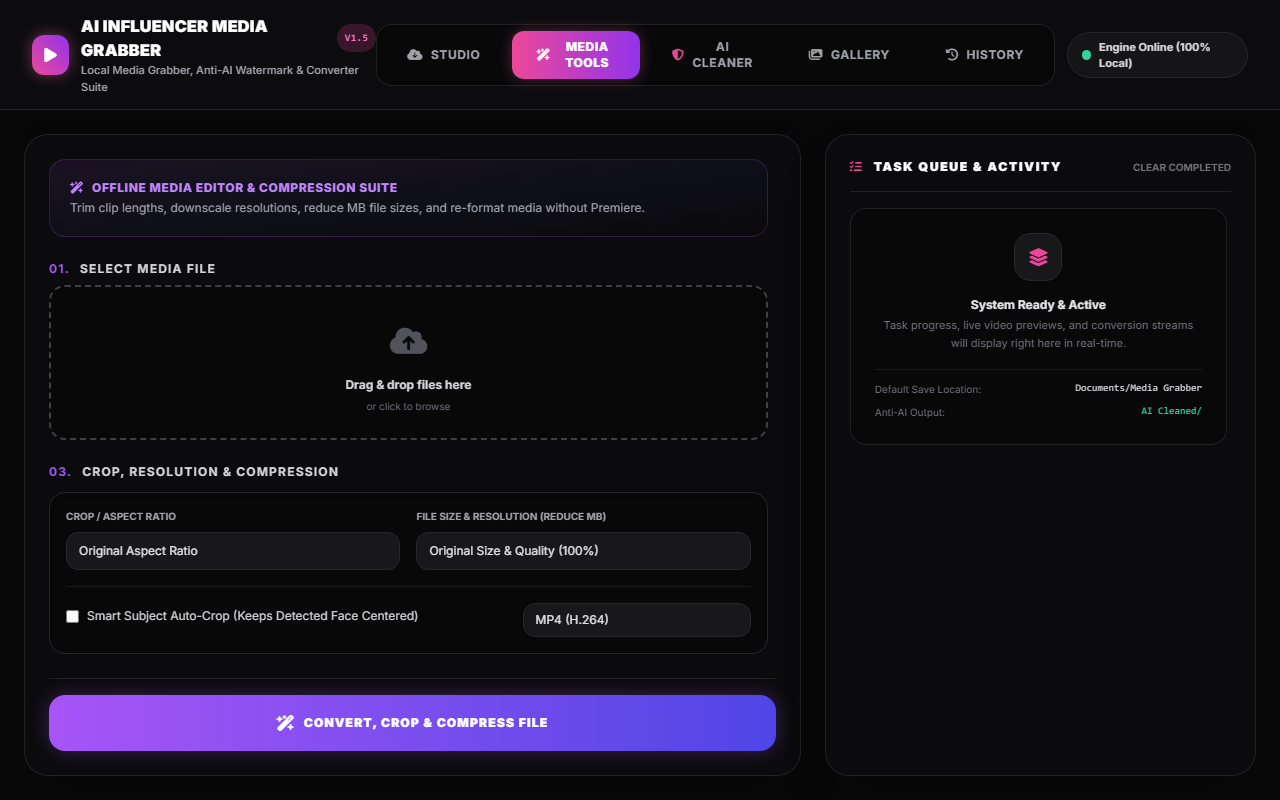
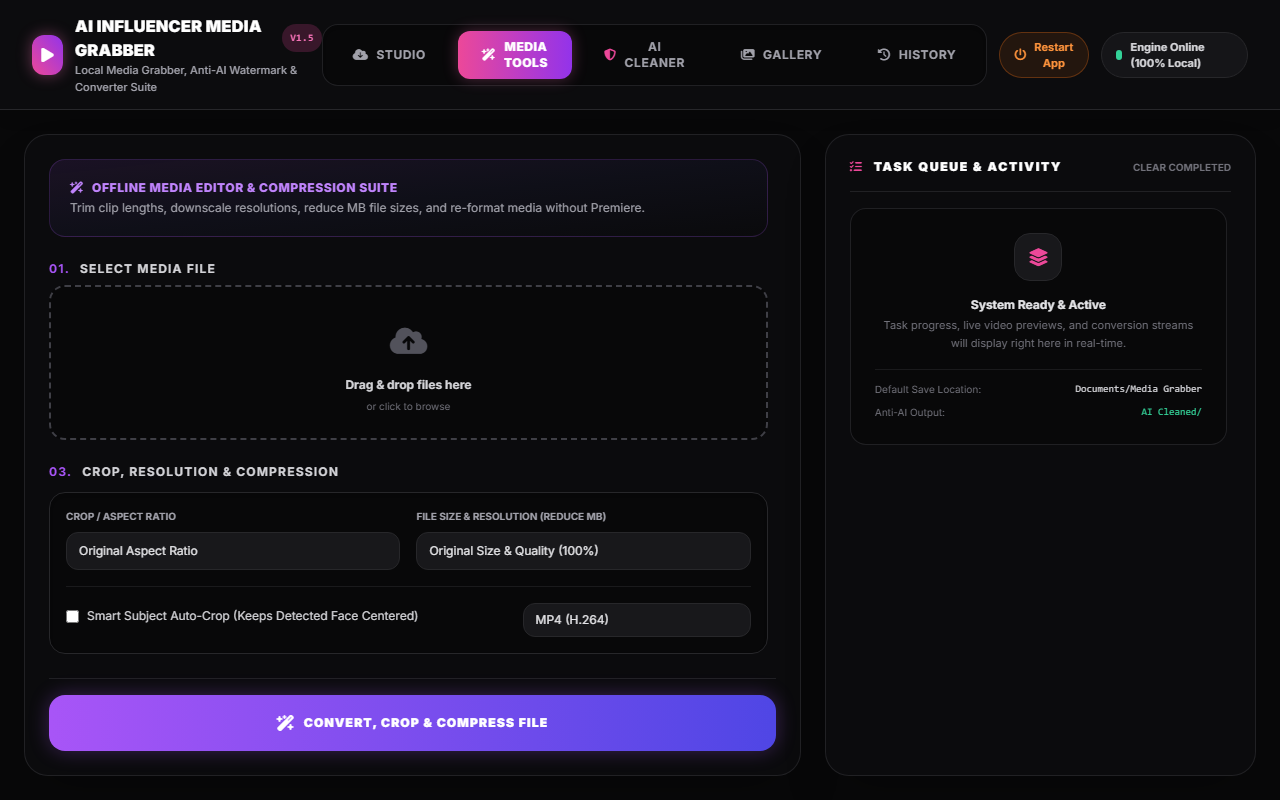
Update README with new Restart App button logic and specify Nano Banana/GPT Image models; update UI screenshots

Changed region(s): [[0.0312, 0.0, 0.9375, 0.125], [0.8438, 0.4688, 0.9375, 0.5312]]

diff --git a/README.md b/README.md
@@ -52,8 +52,8 @@ A dedicated offline media suite to format and tweak your media:
 2. Hover over any video or image card.
 3. Click the shiny **Extract Prompt** button that appears in the overlay menu.
 4. Wait a moment for the AI to analyze the media. 
-   - ⚠ **First Run Disclaimer:** The very first time you click this button, the app will automatically download the local PyTorch Vision Model (`BLIP-Large`, approx. 1.9GB) in the background. After the download completes, you **must restart the app** (fully close the terminal/CMD window and run it again) for the AI model to initialize properly. All subsequent extractions will be instant and completely offline!
-5. A popup will appear with your generated prompt, perfectly formatted and ready to be pasted into Midjourney, Kling, or any other AI generator.
+   - ⚠ **First Run Disclaimer:** The very first time you click this button, the app will automatically download the local PyTorch Vision Model (`BLIP-Large`, approx. 1.9GB) in the background. After the download completes, you **must restart the app** (you can simply click the red **Restart App** button in the top right corner) for the AI model to initialize properly. All subsequent extractions will be instant and completely offline!
+5. A popup will appear with your generated prompt, optimized specifically for **Nano Banana 2**, **Nano Banana Pro**, and **GPT Image 2** models.
 
 ---
 
